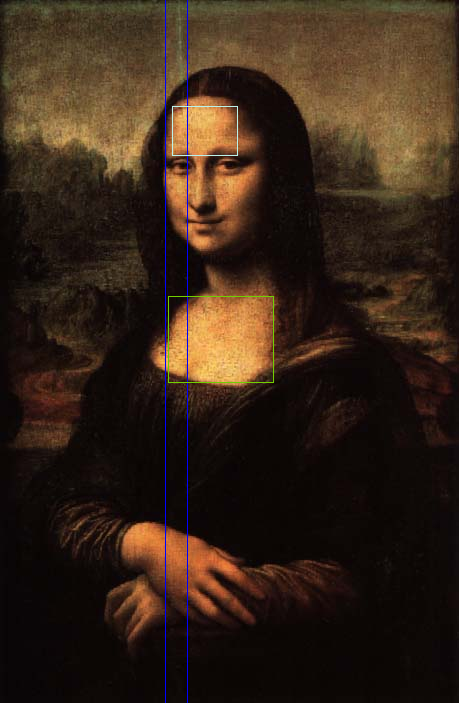
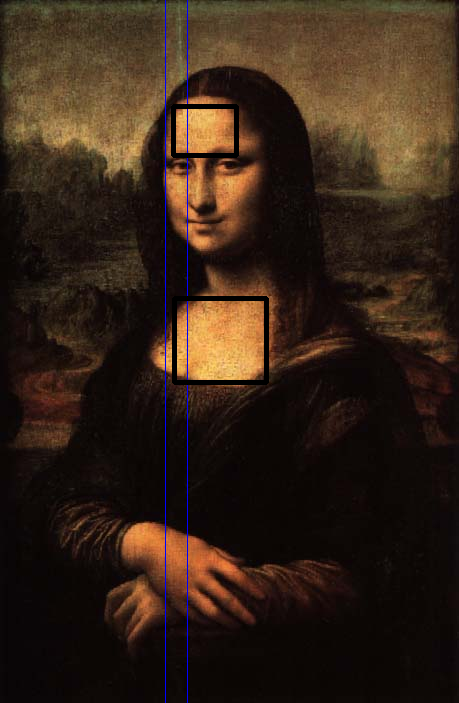
lavet en del billeder om, og lidt raport, nu skal jeg have en pause

Changed region(s): [[0.366, 0.4182, 0.61, 0.5676], [0.366, 0.1494, 0.5185, 0.239]]

diff --git a/doc/rapport/afsnit/afprovning/prodotype.tex b/doc/rapport/afsnit/afprovning/prodotype.tex
@@ -87,15 +87,6 @@ vores metode opføre sig en kende anderledes.
 
 \begin{figure}[h!!]
 	\begin{center}
-		\includegraphics[scale=0.30,angle=0]{afsnit/afprovning/billeder/BB3vault.png}
-	\end{center}
-	\caption[]{I dette billedet er der mallet et loft, og vores metode
-	          finde kun ting som ikke er serlige fede at have med}
-	\label{BB3vault}
-\end{figure}
-
-\begin{figure}[h!!]
-	\begin{center}
 		\includegraphics[scale=0.30,angle=0]{afsnit/afprovning/billeder/BB09crucif.png}
 	\end{center}
 	\caption[]{Metoden finder i dette billedet svanen, som er en meget
@@ -140,19 +131,12 @@ vores metode opføre sig en kende anderledes.
 	\label{BBCarruingcut2}
 \end{figure}
 
-\begin{figure}[h!!]
-	\begin{center}
-		\includegraphics[scale=0.50,angle=0]{afsnit/afprovning/billeder/BBMonalisacut0.png}
-	\end{center}
-	\caption[]{Mona lisa i et af de 2 snit, hvor ikke hindes andsikt bliver fundet, men hindes øverstebryst, som også er ret framhøvet i  billedet}
-	\label{BBMonalisacut0}
-\end{figure}
 
 \begin{figure}[h!!]
 	\begin{center}
 		\includegraphics[scale=0.50,angle=0]{afsnit/afprovning/billeder/BBMonalisacut1.png}
 	\end{center}
-	\caption[]{Monalisa med et andet cut, hvor det sammen er blevet fundet, dette tyder på at vi har en motode som er konsistens med hvad den finder}
+	\caption[]{Monalisa med ved cut 1 , hvor der bliver fundet hindes overbryst og hindes pande, dette tyder på at noget af monalisas krop befinder sig inde i det gyldne snit}
 	\label{BBMonalisacut1}
 \end{figure}
 
